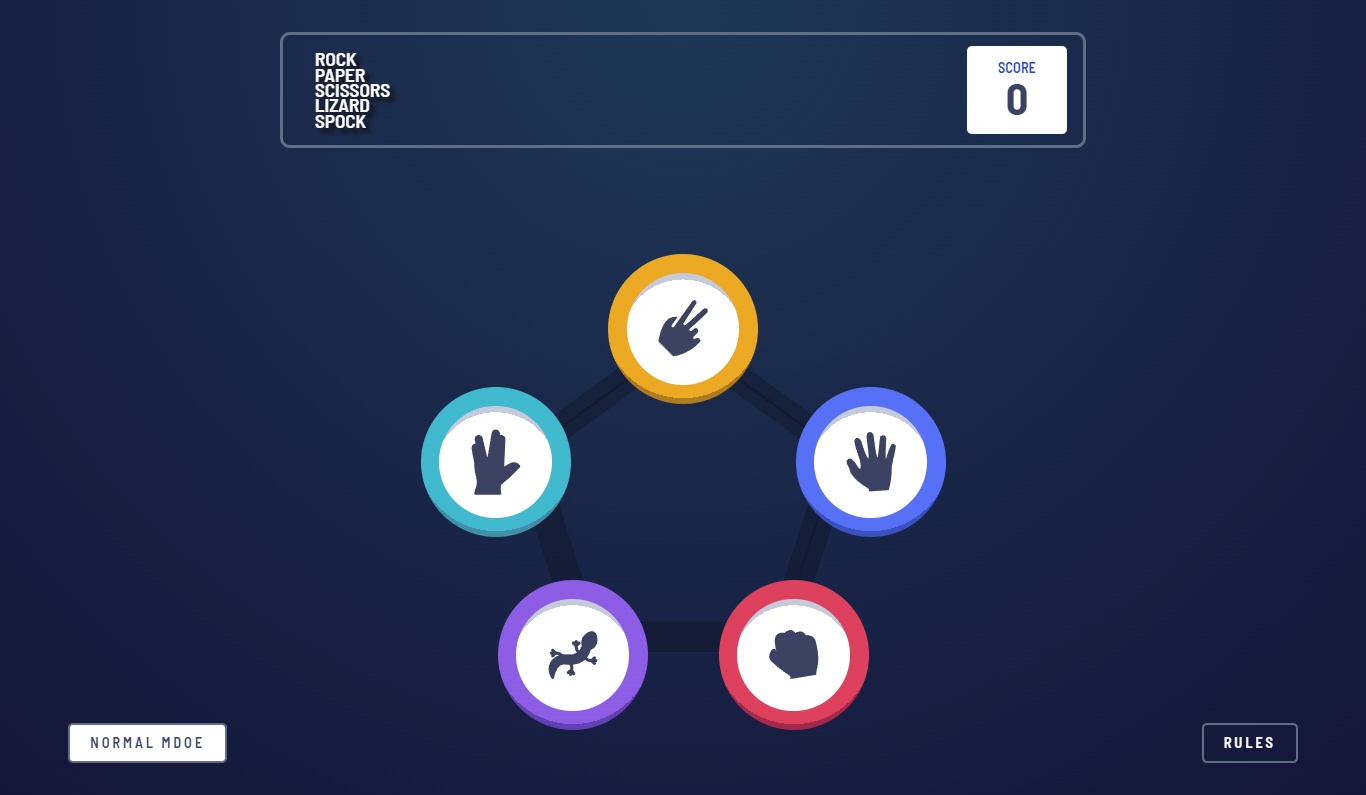
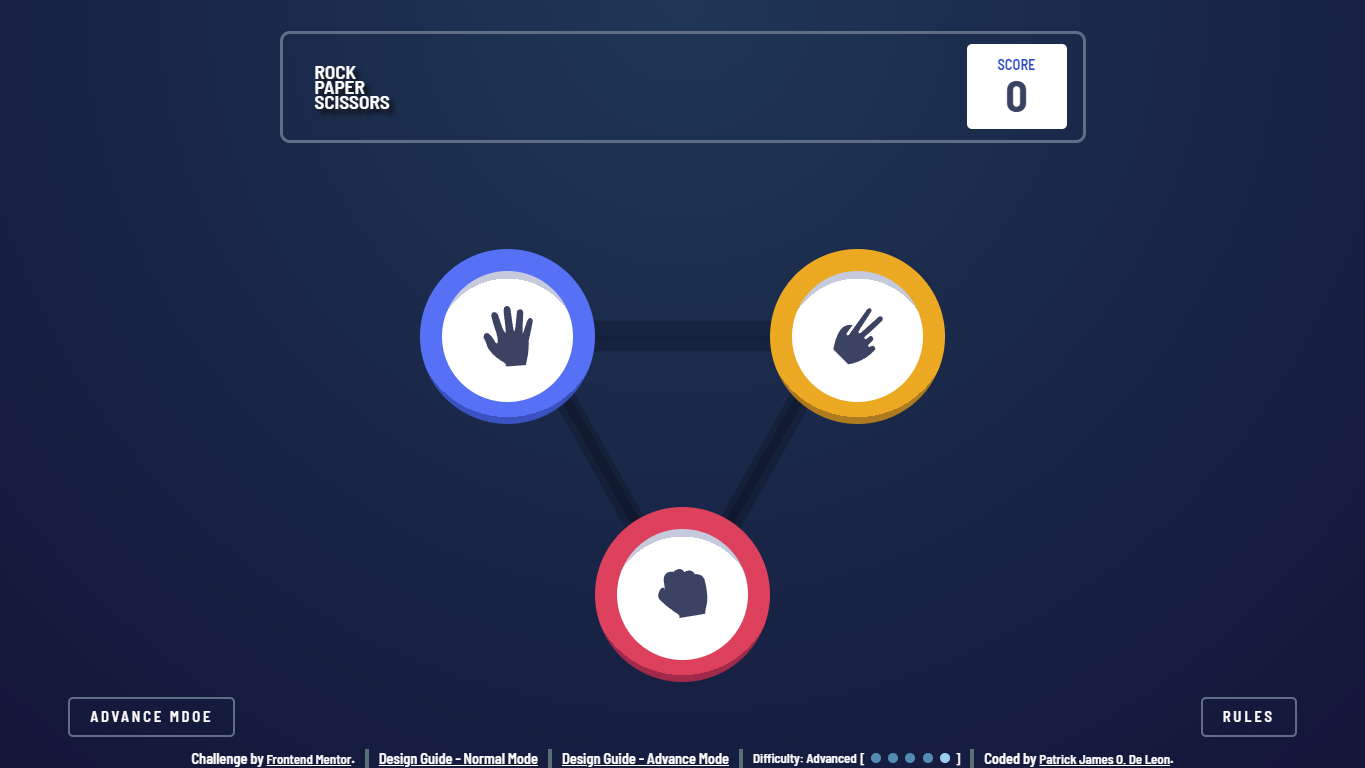
Added Footer

diff --git a/index.html b/index.html
@@ -1,130 +1,130 @@
 <!DOCTYPE html>
 <html lang="en">
-<head>
-  <meta charset="UTF-8">
-  <meta name="viewport" content="width=device-width, initial-scale=1.0"> <!-- displays site properly based on user's device -->
+  <head>
+    <meta charset="UTF-8">
+    <meta name="viewport" content="width=device-width, initial-scale=1.0"> <!-- displays site properly based on user's device -->
 
-  <link rel="icon" type="image/png" sizes="32x32" href="./images/favicon-32x32.png">
-  
-  <title>Frontend Mentor | Rock, Paper, Scissors</title>
-
-  <link rel="stylesheet" href="./styles.css">
-  <link rel="preconnect" href="https://fonts.googleapis.com">
-  <link rel="preconnect" href="https://fonts.gstatic.com" crossorigin>
-  <link href="https://fonts.googleapis.com/css2?family=Barlow+Semi+Condensed:wght@600;700&display=swap" rel="stylesheet">
-
-  <script src="./script.js"></script>
-</head>
-<body onload="getScore();">
-  <main>
-    <div class="container container-game fadeIn">
-      <div class="container container-game-header">
-        <h1 id="header-text" class="game-mode-normal"></h1>
-
-        <div class="container container-score">
-          <p id="score-label">SCORE</p>
+    <link rel="icon" type="image/png" sizes="32x32" href="./images/favicon-32x32.png">
     
-          <p id="score-points"></p>
-        </div>
-      </div>
+    <title>Frontend Mentor | Rock, Paper, Scissors</title>
 
-      <div class="container container-game-body game-mode-normal" id="game-option-container">
-        <div class="container container-game-option game-option-scissors" id="game-scissors" onclick="playerPicks( 'scissors' )">
-          <img src="./images/icon-scissors.svg" alt="game-selection-scissors">
-        </div>
+    <link rel="stylesheet" href="./styles.css">
+    <link rel="preconnect" href="https://fonts.googleapis.com">
+    <link rel="preconnect" href="https://fonts.gstatic.com" crossorigin>
+    <link href="https://fonts.googleapis.com/css2?family=Barlow+Semi+Condensed:wght@600;700&display=swap" rel="stylesheet">
 
-        <div class="container container-game-option game-option-spock" id="game-spock" onclick="playerPicks( 'spock' )">
-          <img src="./images/icon-spock.svg" alt="game-selection-spock">
-        </div>
+    <script src="./script.js"></script>
+  </head>
+  <body onload="getScore();">
+    <main>
+      <div class="container container-game fadeIn">
+        <div class="container container-game-header">
+          <h1 id="header-text" class="game-mode-normal"></h1>
 
-        <div class="container container-game-option game-option-paper" id="game-paper" onclick="playerPicks( 'paper' )">
-          <img src="./images/icon-paper.svg" alt="game-selection-paper">
-        </div>
-
-        <div class="container container-game-option game-option-lizard" id="game-lizard" onclick="playerPicks( 'lizard' )">
-          <img src="./images/icon-lizard.svg" alt="game-selection-lizard">
-        </div>
-
-        <div class="container container-game-option game-option-rock" id="game-rock" onclick="playerPicks( 'rock' )">
-          <img src="./images/icon-rock.svg" alt="game-selection-rock">
-        </div>
-
-        <img class="bg-selection bg-outer" id="game-bg-outer" src="" alt="game-selection-bg">
-
-        <img class="bg-selection bg-inner" id="game-bg-inner" src="" alt="game-selection-bg">
-      </div>
-
-      <div class="container container-result fadeOutVanish" id="game-result-container">
-        <div class="container container-matchup">
-          <div class="container container-player-select container-game-picks fadeIn">
-            <div class="container container-game-option game-picks" id="player-select">
-              <img src="./images/icon-rock.svg" alt="game-player-select">
-            </div>
-
-            <p>YOU PICKED</p>
-          </div>
-          
-          <div class="container container-house-select container-game-picks fadeIn">
-            <div class="container container-game-option game-picks" id="house-select">
-              <img src="./images/icon-rock.svg" alt="game-house-select">
-            </div>
-
-            <p>THE HOUSE PICKED</p>
+          <div class="container container-score">
+            <p id="score-label">SCORE</p>
+      
+            <p id="score-points"></p>
           </div>
         </div>
 
-        <div class="container container-verdict fadeIn">
-          <h2 id="result-header">{{}}</h2>
+        <div class="container container-game-body game-mode-normal" id="game-option-container">
+          <div class="container container-game-option game-option-scissors" id="game-scissors" onclick="playerPicks( 'scissors' )">
+            <img src="./images/icon-scissors.svg" alt="game-selection-scissors">
+          </div>
 
-          <button class="btn" onclick="gameRestart();">PLAY AGAIN</button>
+          <div class="container container-game-option game-option-spock" id="game-spock" onclick="playerPicks( 'spock' )">
+            <img src="./images/icon-spock.svg" alt="game-selection-spock">
+          </div>
+
+          <div class="container container-game-option game-option-paper" id="game-paper" onclick="playerPicks( 'paper' )">
+            <img src="./images/icon-paper.svg" alt="game-selection-paper">
+          </div>
+
+          <div class="container container-game-option game-option-lizard" id="game-lizard" onclick="playerPicks( 'lizard' )">
+            <img src="./images/icon-lizard.svg" alt="game-selection-lizard">
+          </div>
+
+          <div class="container container-game-option game-option-rock" id="game-rock" onclick="playerPicks( 'rock' )">
+            <img src="./images/icon-rock.svg" alt="game-selection-rock">
+          </div>
+
+          <img class="bg-selection bg-outer" id="game-bg-outer" src="" alt="game-selection-bg">
+
+          <img class="bg-selection bg-inner" id="game-bg-inner" src="" alt="game-selection-bg">
         </div>
+
+        <div class="container container-result fadeOutVanish" id="game-result-container">
+          <div class="container container-matchup">
+            <div class="container container-player-select container-game-picks fadeIn">
+              <div class="container container-game-option game-picks" id="player-select">
+                <img src="./images/icon-rock.svg" alt="game-player-select">
+              </div>
+
+              <p>YOU PICKED</p>
+            </div>
+            
+            <div class="container container-house-select container-game-picks fadeIn">
+              <div class="container container-game-option game-picks" id="house-select">
+                <img src="./images/icon-rock.svg" alt="game-house-select">
+              </div>
+
+              <p>THE HOUSE PICKED</p>
+            </div>
+          </div>
+
+          <div class="container container-verdict fadeIn">
+            <h2 id="result-header">{{}}</h2>
+
+            <button class="btn" onclick="gameRestart();">PLAY AGAIN</button>
+          </div>
+        </div>
+        
+        <div class="container container-accessibility">
+          <button class="btn game-mode-normal" id="btn-change-mode" onclick="changeGameMode()"></button>
+          <button class="btn" id="btn-rules-open" onclick="showRules()">RULES</button>
+        </div>
+
+        <div class="container container-rules" id="rules">
+          <div class="container container-rules-content">
+            <p>RULES</p>
+
+            <img id="img-rules" class="game-mode-normal" src="./images/image-rules.svg" alt="img-rules">
+
+            <button class="btn" id="btn-rules-close" onclick="hideRules()">✖</button>
+          </div>
+        </div>
+      </div>
+    </main>
+    <!-- not part of the challenge-->
+    <footer class="attribution">
+      <span>Challenge by <a href="https://www.frontendmentor.io/challenges/rock-paper-scissors-game-pTgwgvgH" target="_blank">Frontend Mentor</a>.</span>
+      
+      <div class="separator"></div>
+      
+      <a href="./design/original" target="_blank">Design Guide - Normal Mode</a>
+      
+      <div class="separator"></div>
+
+      <a href="./design/bonus" target="_blank">Design Guide - Advance Mode</a>
+      
+      <div class="separator"></div>
+      
+      <div class="rating">
+        <span>Difficulty: Advanced</span>
+        <br class="text-cutter">
+        <span>[</span>
+        <div class="rate rate-lit" id="rate-newbie"></div>
+        <div class="rate rate-lit" id="rate-junior"></div>
+        <div class="rate rate-lit" id="rate-intermediate"></div>
+        <div class="rate rate-lit" id="rate-advance"></div>
+        <div class="rate" id="rate-guro"></div>
+        <span>]</span>
       </div>
       
-      <div class="container container-accessibility">
-        <button class="btn game-mode-normal" id="btn-change-mode" onclick="changeGameMode()"></button>
-        <button class="btn" id="btn-rules-open" onclick="showRules()">RULES</button>
-      </div>
-
-      <div class="container container-rules" id="rules">
-        <div class="container container-rules-content">
-          <p>RULES</p>
-
-          <img id="img-rules" class="game-mode-normal" src="./images/image-rules.svg" alt="img-rules">
-
-          <button class="btn" id="btn-rules-close" onclick="hideRules()">✖</button>
-        </div>
-      </div>
-    </div>
-  </main>
-  <!-- not part of the challenge-->
-  <!--<footer class="attribution">
-    <span>Challenge by <a href="https://www.frontendmentor.io?ref=challenge" target="_blank">Frontend Mentor</a>.</span>
-    
-    <div class="separator"></div>
-    
-    <a href="./design/desktop-design.jpg" target="_blank">Design Guide - Desktop</a>
-    
-    <div class="separator"></div>
-
-    <a href="./design/mobile-design.jpg" target="_blank">Design Guide - Mobile</a>
-    
-    <div class="separator"></div>
-    
-    <div class="rating">
-      <span>Difficulty: Advanced</span>
-      <br class="text-cutter">
-      <span>[</span>
-      <div class="rate rate-lit" id="rate-newbie"></div>
-      <div class="rate rate-lit" id="rate-junior"></div>
-      <div class="rate rate-lit" id="rate-intermediate"></div>
-      <div class="rate rate-lit" id="rate-advance"></div>
-      <div class="rate" id="rate-guro"></div>
-      <span>]</span>
-    </div>
-    
-    <div class="separator"></div>
-    
-    <span>Coded by <a href="https://github.com/EcePJD">Patrick James O. De Leon</a>.</span>
-  </footer>-->
-</body>
+      <div class="separator"></div>
+      
+      <span>Coded by <a href="https://github.com/EcePJD">Patrick James O. De Leon</a>.</span>
+    </footer>
+  </body>
 </html>

diff --git a/styles.css b/styles.css
@@ -742,3 +742,93 @@ main,
     }
 }
 /* MAIN Element - END */
+
+/* FOOTER Element - START */
+/* not part of the challenge */
+.attribution {
+    display: -webkit-box;      /* OLD - iOS 6-, Safari 3.1-6 */
+    display: -moz-box;         /* OLD - Firefox 19- (buggy but mostly works) */
+    display: -ms-flexbox;      /* TWEENER - IE 10 */
+    display: -webkit-flex;     /* NEW - Chrome */
+    display: flex;             /* NEW, Spec - Opera 12.1, Firefox 20+ */
+    justify-content: center;
+    align-items: center;
+    width: 100%;
+    position: fixed;
+    bottom: 0;
+    z-index: 1;
+}
+
+.attribution > * {
+    font-size: 0.75em;
+    margin: 0 5px;
+}
+
+.rate {
+    display: inline-block;
+    width: 0.75em;
+    height: 0.75em;
+    background-color: rgb(155, 205, 238);
+    margin: 0 2px;
+    border-radius: 50%;
+}
+
+.rate-lit {
+    background-color: rgb(81, 140, 180);
+}
+
+.separator {
+    display: inline-block;
+    
+    border: solid 2px #597175;
+}
+
+@media only screen and (min-width: 881px) {
+    .text-cutter {
+        display: none;
+    }
+
+    .attribution * {
+        font-size: 0.9em;
+    }
+}
+
+@media only screen and (max-width: 880px) {
+    .attribution * {
+        font-size: 0.75em;
+    }
+
+    .text-cutter {
+        display: inline-block;
+    }
+}
+
+@media only screen and (min-width: 425px) {
+    .attribution {
+        flex-direction: row;
+    }
+    
+    .separator {
+        width: 0;
+        min-height: 15px;
+    }
+}
+
+@media only screen and (max-width: 424px) {
+    .attribution * {
+        font-size: 0.5em;
+    }
+
+    .separator {
+        width: 30px;
+        height: 0;
+        margin: 3px 0;
+    }
+}
+
+@media only screen and (max-width: 300px) {
+    .attribution {
+        display: none;
+    }
+}
+/* FOOTER Element - END */
